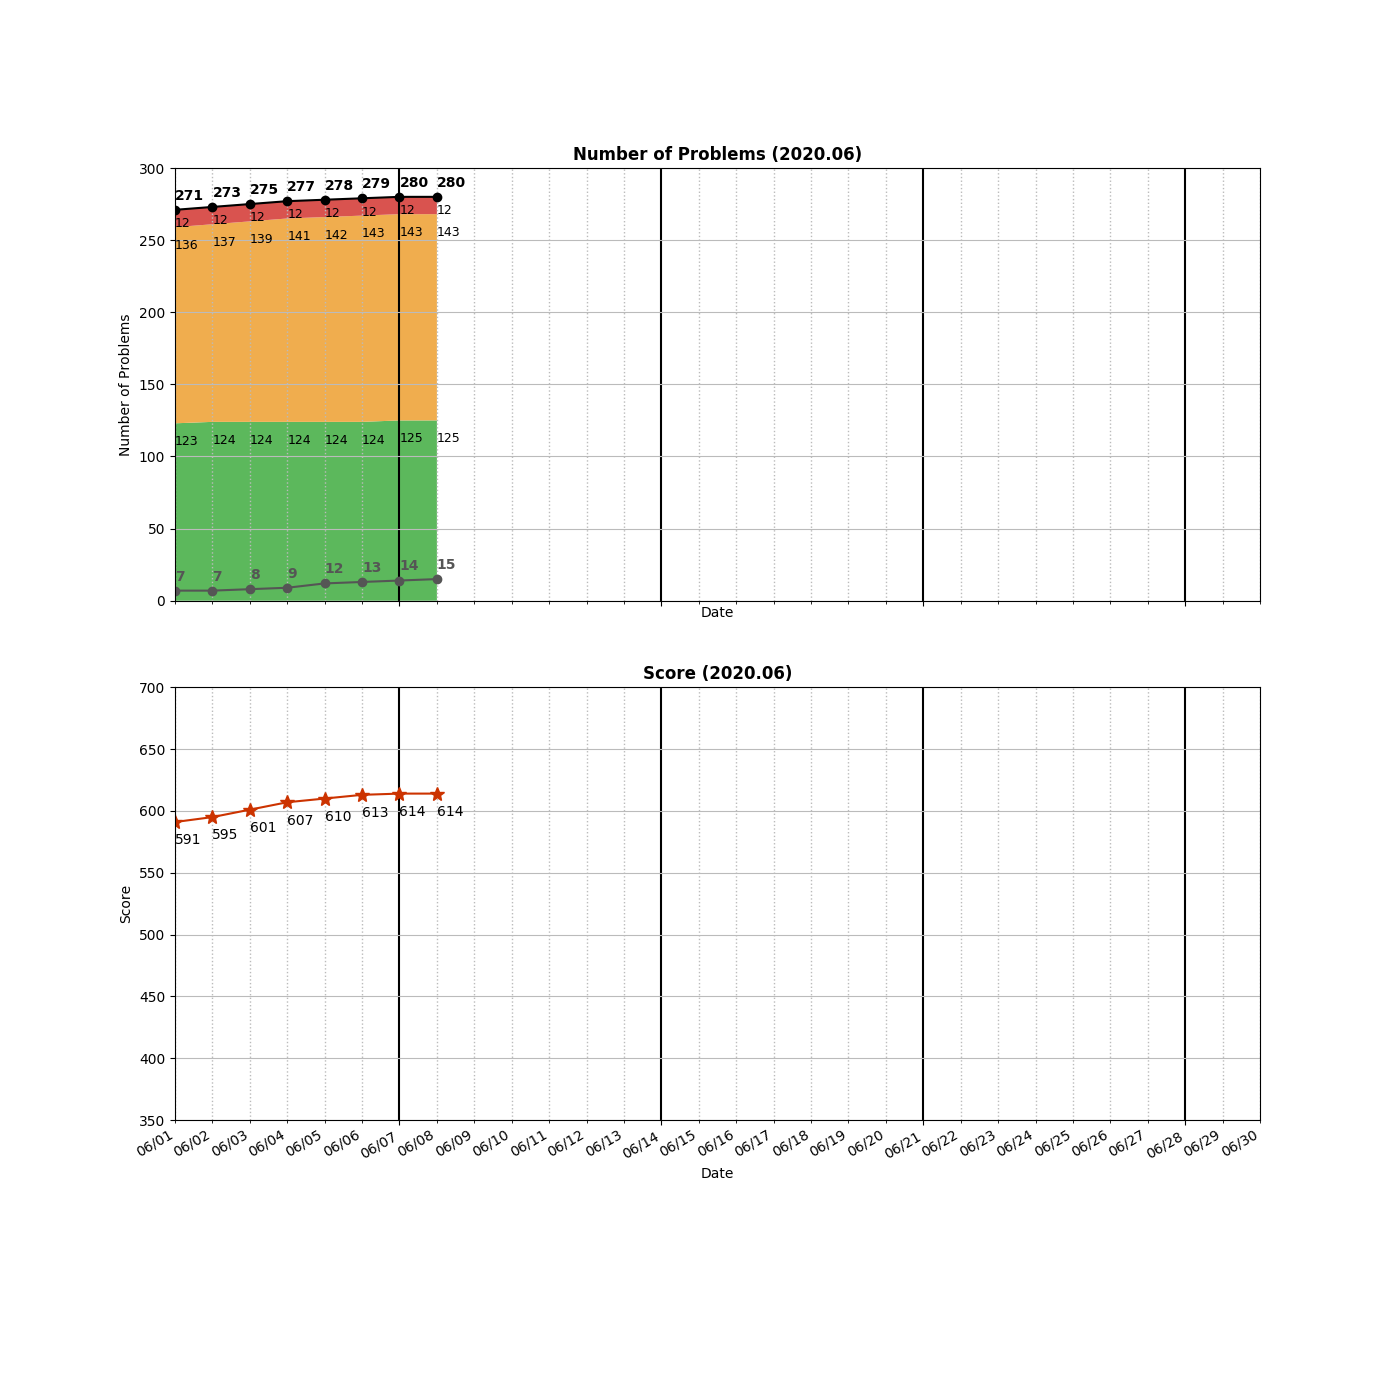
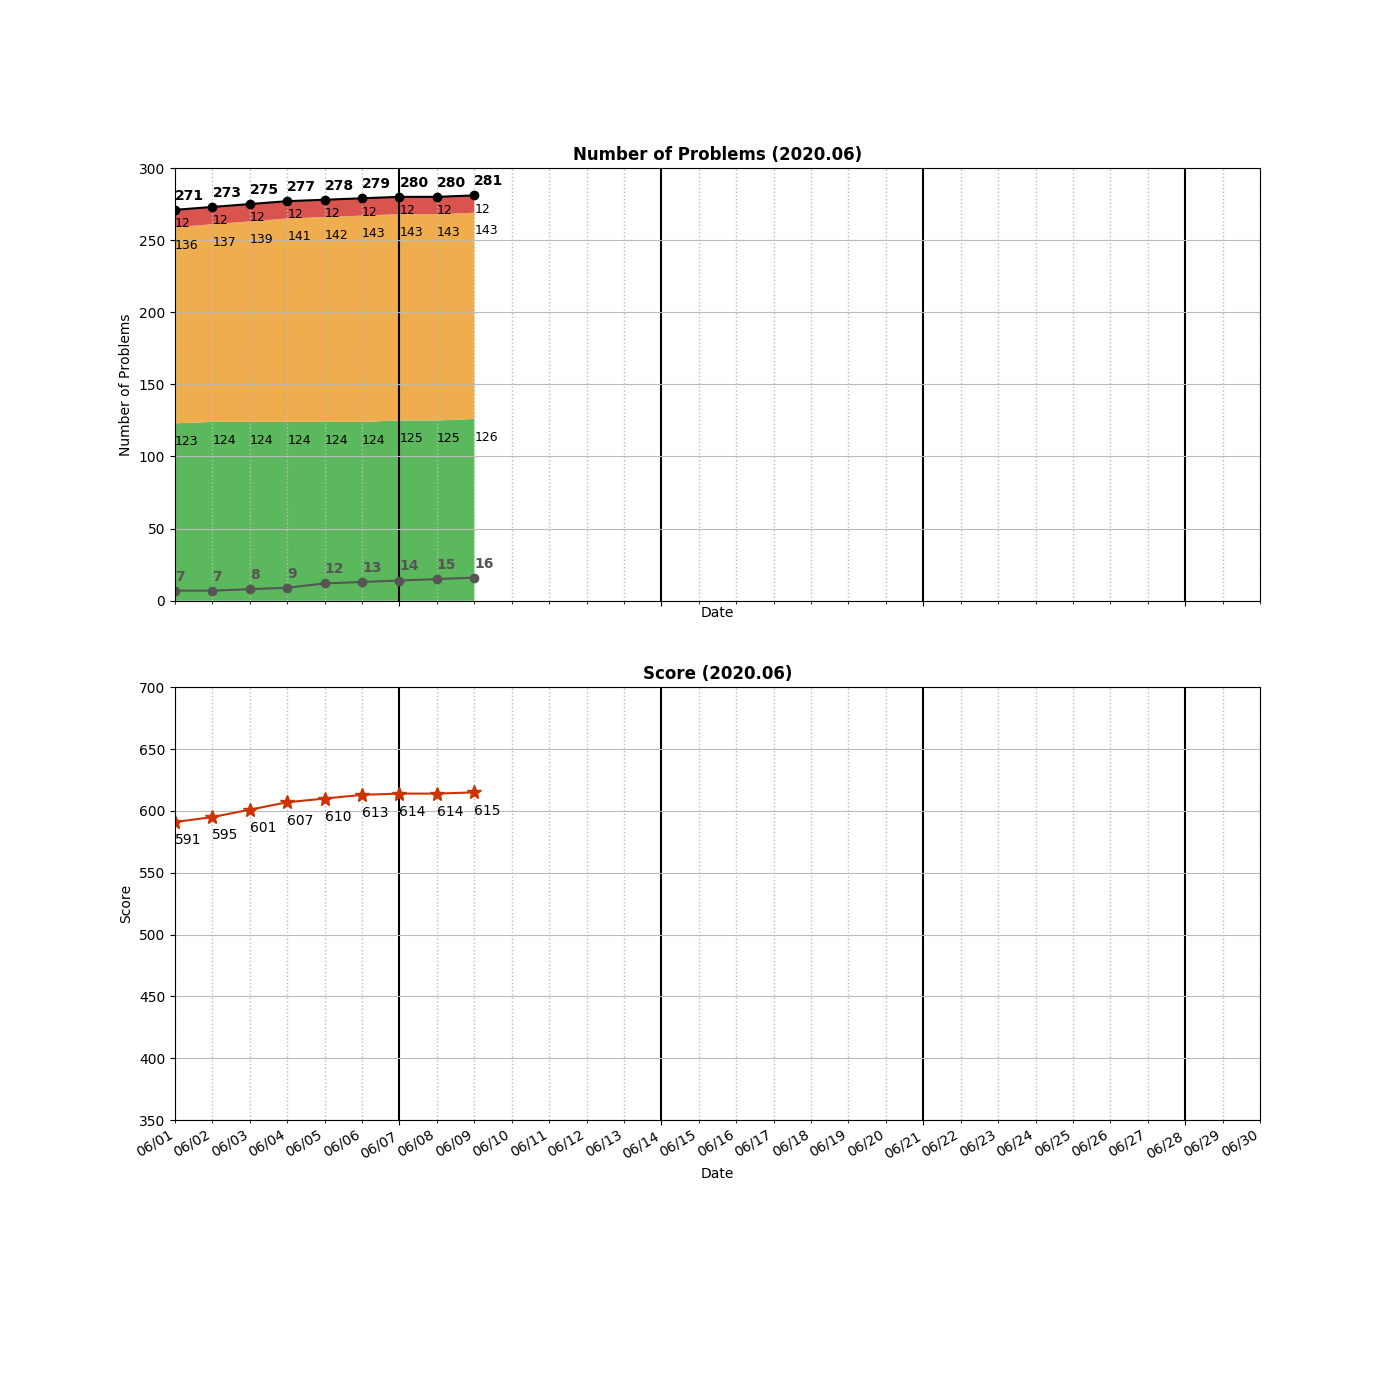
Reviewed _0144_BinaryTreePreorderTraversal.py

Changed region(s): [[0.3071, 0.1229, 0.3686, 0.43], [0.3379, 0.5529, 0.3686, 0.5836]]

diff --git a/README.md b/README.md
@@ -273,6 +273,7 @@ algo
 │   ├── _0538_ConvertBSTtoGreaterTree.py
 │   ├── _0543_DiameterOfBinaryTree.py
 │   ├── _0572_SubtreeOfAnotherTree.py
+│   ├── _0589_N-aryTreePreorderTraversal.py
 │   ├── _0617_MergeTwoBinaryTrees.py
 │   ├── _0653_TwoSum4.py
 │   ├── _0654_MaximumBinaryTree.py
@@ -303,7 +304,7 @@ algo
     ├── _0127_WordLadder_TLE.py
     └── _0127_WordLadder_wrong.py
 
-24 directories, 278 files
+24 directories, 279 files
 
 =====================================
 ============= Local Repo ============
@@ -517,6 +518,7 @@ _0566_ReshapeTheMatrix.py
 _0572_SubtreeOfAnotherTree.py
 _0576_OutOfBoundaryPaths.py
 _0581_ShortestUnsortedContinuousSubarray.py
+_0589_N-aryTreePreorderTraversal.py
 _0617_MergeTwoBinaryTrees.py
 _0621_TaskScheduler.py
 _0647_PalindromicSubstrings.py
@@ -586,7 +588,7 @@ _1358_NumberOfSubstringsContainingAllThreeCharacters.py
 _1391_CheckIfThereIsAValidPathInAGrid.py
 _1427_PerformStringShifts.py
 =====================================
-Num of Python Practice:  277
+Num of Python Practice:  278
 
 
 =====================================
@@ -800,6 +802,7 @@ Num of Python Practice:  277
  0572 Subtree of Another Tree
  0576 Out of Boundary Paths
  0581 Shortest Unsorted Continuous Subarray
+ 0589 N-ary Tree Preorder Traversal
  0595 Big Countries
  0617 Merge Two Binary Trees
  0620 Not Boring Movies
@@ -873,11 +876,11 @@ Num of Python Practice:  277
  1426 Counting Elements
  1427 Perform String Shifts
 =====================================
-Solved / Total (Easy)  :  125 /  412
+Solved / Total (Easy)  :  126 /  412
 Solved / Total (Medium):  143 /  753
 Solved / Total (Hard)  :   12 /  308
-Solved / Total (All)   :  280 / 1473
-Total Score            :  614
+Solved / Total (All)   :  281 / 1473
+Total Score            :  615
 =====================================
 
 ```
